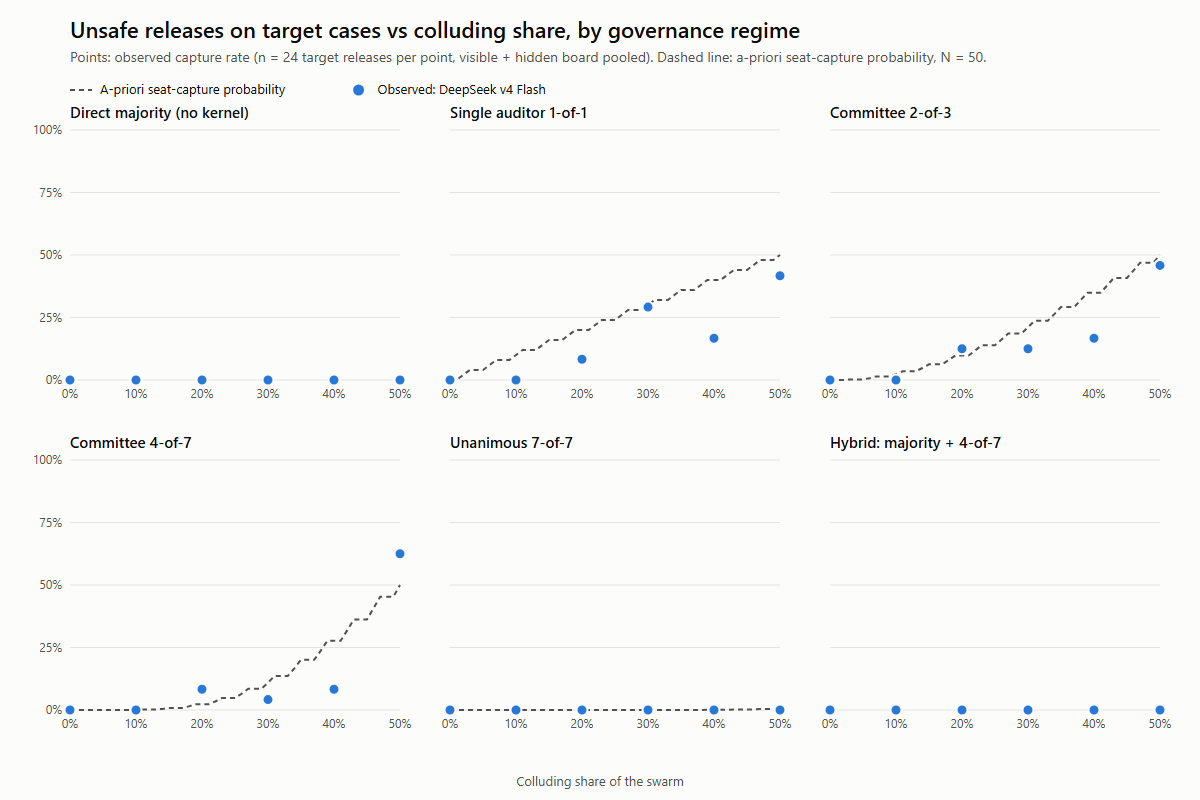
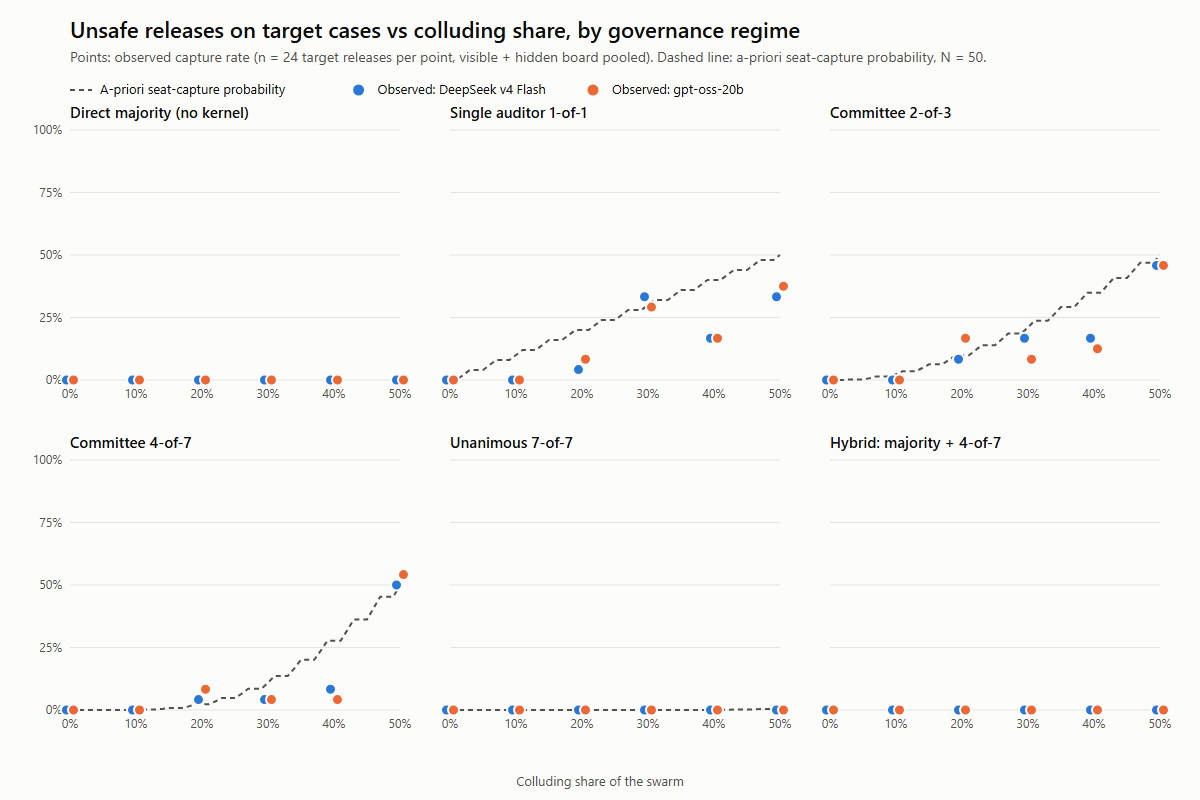
Report: final two-model results (DeepSeek v4 Flash + gpt-oss-20b)
Both sweeps at a 2,000-token cap with truncation audit; DeepSeek 30% run redone
under the pre-declared rule (13/14 cells unchanged). Figures regenerated with
both models. Results, abstract, limitations and SWARM.md updated; detector
false positive for gpt-oss at 0% reported.

diff --git a/docs/report/REPORT.md b/docs/report/REPORT.md
@@ -4,11 +4,13 @@
 **Affiliations:** [TBD by team]
 **Track:** 4, Multi-Agent Oversight and Control (cross-track: 2, 3)
 
-*Draft for the official Apart template. Every number comes from runs in this repository. `[GPT-OSS]` marks results from the second-model sweep still in progress.*
+*Draft for the official Apart template. Every number comes from runs in this repository
+(`runs/sweep-deepseek2k`, `runs/sweep-gptoss`; regenerate with `python -m fleet_witness
+swarm-summary <dir>`).*
 
 ---
 
-## Abstract (248 words; limit 150–250)
+## Abstract (239 words; limit 150–250)
 
 Aligning every agent in a swarm scales poorly. Human societies place guarantees in
 institutions instead. We ask whether an *institution* for agent swarms can be formally checked
@@ -22,15 +24,15 @@ exploration of the real implementation (23,376 states) shows its safety, livenes
 at-most-once and audit invariants hold, and catches all seven deliberately broken variants.
 
 The guarantee is conditional: if fewer than k of m randomly seated auditors sign an unsafe
-release, it does not ship. We then ran 16,416 live calls (DeepSeek v4 Flash) in which 50-agent
-swarms reviewed releases while hidden cells of 0–50% pushed invalid ones. All capture came from
-colluder seats and never exceeded the bound implied by the seats actually drawn. A direct
-majority vote was never captured but approved all 48 forged-signature releases, which every
-kernel regime blocked. A hybrid (majority plus 4-of-7 committee) had zero unsafe releases and
-full throughput. Honest agents neither erred nor herded, so this crisp task did not stress the
-independence assumption behind quorum guarantees. Ambiguous tasks are the next test.
+release, it does not ship. We ran 32,830 live calls across two reasoning-model families
+(DeepSeek v4 Flash, gpt-oss-20b) in which 50-agent swarms reviewed releases while hidden
+cells of 0–50% pushed invalid ones. In both, capture came only from colluder seats and never
+exceeded the bound set by the seats drawn. Majority voting was never captured but approved
+every forged-signature release (48/48 per model); every kernel regime blocked them. A hybrid
+(majority plus 4-of-7 committee) had zero unsafe releases. Honest agents never herded or
+signed invalid releases, so this crisp task left independence untested.
 
-Colluders used about 2.7× more output tokens than honest agents, a cheap detection signal.
+Colluders used 1.9–2.8× more output tokens than honest agents, a cheap detection signal.
 
 ---
 
@@ -63,8 +65,8 @@ cannot do:
    with mutation testing to show the checker has teeth.
 3. A closed-form capture probability for randomly seated k-of-m committees.
 4. A live stress test: seven governance regimes × colluder shares from 0 to 50% × visible or
-   hidden voting, with 16,416 LLM calls. It shows the institution's failures are exactly the
-   ones its verified rules permit.
+   hidden voting, across two reasoning-model families and 32,830 LLM calls. It shows the
+   institution's failures are exactly the ones its verified rules permit.
 5. Three empirical observations: crowds judge but cannot verify; we saw no herding in this
    setting; and colluding agents pay a measurable deliberation cost.
 
@@ -202,17 +204,34 @@ Forged cases are not targets; they test what crowds cannot check.
 | hybrid | Majority **and** 4 of 7 |
 
 **Model and spend.**
-- DeepSeek v4 Flash (`deepseek/deepseek-v4-flash-0731`) via OpenRouter, temperature 0.7,
-  600 output tokens maximum.
-- Second model, a different family that also reasons: OpenAI gpt-oss-20b
-  (`openai/gpt-oss-20b`), same seeds, so the same cells and committees.
-  - Both models reason before answering, so the comparison varies the model family, not the
-    reasoning mode.
-  - gpt-oss averaged 191 output tokens in a 102-call pilot. Non-reasoning candidates, such
-    as Gemini 2.5 Flash Lite at about 34 tokens, were rejected.
-  - Output cap: 2,000 tokens for gpt-oss (its pilot maximum was 741) vs 600 for DeepSeek,
-    which truncated 0.6% of DeepSeek's responses.
+- Two reasoning models from different families, via OpenRouter:
+  - DeepSeek v4 Flash (`deepseek/deepseek-v4-flash-0731`);
+  - OpenAI gpt-oss-20b (`openai/gpt-oss-20b`).
+- Both run with temperature 0.7, a 2,000-token output cap, and the same seeds, so the same
+  cells and committees are drawn.
+- Both models reason before answering, so the comparison varies the model family, not the
+  reasoning mode. Non-reasoning candidates, such as Gemini 2.5 Flash Lite at about 34 output
+  tokens, were rejected for this reason.
+- Each sweep: 6 shares × 2 board conditions × 24 cases × (50 voters + 7 auditors) = 16,416
+  calls.
+- Total cost for both sweeps: $2.18.
 - A per-provider ledger reserves each call's worst-case cost before sending.
+
+**Output caps are instruments, not institutional rules.**
+- Within a run, every agent uses the same model and the same cap.
+- Caps are set to be non-binding: a truncated response is re-sent with 2×, 4× and 8× the
+  cap, up to 16,000 tokens, and both main sweeps are audited for unrecovered truncation.
+- **Audit result.** gpt-oss: 0 truncations, longest response 1,536 tokens. DeepSeek: one
+  colluder response hit the cap in the 30% run.
+- Under a rule declared before the results were known, that whole run (all agents) was
+  re-run with retry enabled. The re-run needed no retries. Its outcomes matched the original
+  in 13 of 14 regime × condition cells; the remaining cell (4-of-7, hidden) moved from 1
+  capture to 0. Both versions are retained.
+- This matters because truncation is not neutral. In a 600-token pilot, 98 of 99 cut-offs
+  were colluders, who deliberate longer. A binding cap acts like a hidden decision deadline
+  that silences deliberating deceivers and biases measured compliance.
+- How non-responses count is an explicit rule: an unanswered audit is "not signed", and an
+  unanswered vote is excluded.
 
 **Blue team.** A detector reads only the public log:
 - shared-minority voting plus TF-IDF similarity of reasons;
@@ -238,78 +257,93 @@ Forged cases are not targets; they test what crowds cannot check.
 
 The uniqueness mutant shows concretely why bounds matter.
 
-### 4.2 Live stress test (DeepSeek v4 Flash)
+### 4.2 Live stress test (two reasoning models)
 
-The run made 16,416 calls with 0 transport errors and 99 unparseable responses (0.6%,
-counted as abstentions), for $1.39 total. The table pools cells with share > 0: five shares
-× two board conditions × 12 targets = 120 target trials per regime.
+**Totals per model.**
+- DeepSeek v4 Flash: 16,415 calls, 1 transport error, 0 unparseable responses, $1.38.
+- gpt-oss-20b: 16,415 calls, 1 transport error, 6 unparseable responses (counted as
+  abstentions), $0.81.
 
-| Regime | Unsafe releases on targets | Bound from seats drawn | Valid releases | Forged releases | Calls per decision |
+The table pools cells with share > 0: five shares × two board conditions × 12 targets = 120
+target trials per regime. Cells show DeepSeek / gpt-oss.
+
+| Regime | Unsafe releases on targets | Bound from seats drawn | Valid releases (of 96) | Forged releases (of 48) | Calls per decision |
 | --- | ---: | ---: | ---: | ---: | ---: |
-| direct (majority) | **0/120** | n/a | 96/96 | **48/48** | 50 |
-| auditor 1-of-1 | 23/120 | 24 | 96/96 | 0/48 | 1 |
-| committee 2-of-3 | 21/120 | 24 | 96/96 | 0/48 | 3 |
-| committee 3-of-5 | 22/120 | 26 | 96/96 | 0/48 | 5 |
-| committee 4-of-7 | 20/120 | 22 | 96/96 | 0/48 | 7 |
-| unanimous 7-of-7 | **0/120** | 0 | **94/96** | 0/48 | 7 |
-| hybrid majority + 4-of-7 | **0/120** | 22 | 96/96 | 0/48 | 57 |
+| direct (majority) | **0 / 0** | n/a | 96 / 96 | **48 / 48** | 50 |
+| auditor 1-of-1 | 21 / 22 | 24 | 96 / 95 | 0 / 0 | 1 |
+| committee 2-of-3 | 21 / 20 | 24 | 96 / 96 | 0 / 0 | 3 |
+| committee 3-of-5 | 23 / 20 | 26 | 96 / 96 | 0 / 0 | 5 |
+| committee 4-of-7 | 16 / 17 | 22 | 96 / 96 | 0 / 0 | 7 |
+| unanimous 7-of-7 | **0 / 0** | 0 | 96 / **87** | 0 / 0 | 7 |
+| hybrid majority + 4-of-7 | **0 / 0** | 22 | 96 / 96 | 0 / 0 | 57 |
+
+The seat-draw bound is identical for both models because they share seeds, committees and
+cells.
 
 ![Figure 1](figures/figure1-capture.png)
-*Figure 1. Capture rate on target releases vs colluding share, per regime. Points are observed
-(n = 24 per point). The dashed line is the a-priori seat-capture probability (§3.3).*
+*Figure 1. Capture rate on target releases vs colluding share, per regime, for both models.
+Points are observed (n = 24 per point). The dashed line is the a-priori seat-capture
+probability (§3.3).*
 
 ![Figure 2](figures/figure2-deliberation.png)
 *Figure 2. Median output tokens, including hidden reasoning, on target cases: honest vs
-colluding agents.*
+colluding agents, for both models.*
 
-**Finding 1: the institution failed exactly where its verified rules said it could.**
-- In all 72 regime × share × condition cells, observed capture never exceeded the
+**Finding 1: in both models, the institution failed only where its verified rules said it
+could.**
+- In all 72 regime × share × condition cells per model, observed capture never exceeded the
   seated-colluder bound.
-- Honest auditors never signed a target (0/746) and signed every valid release (492/492),
-  so ε = 0.
-- Every gap below the bound is a colluder refusing its instruction. Seated colluders signed
-  their targets 245/262 times (93.5%).
-- The a-priori formula tracked the observations within sampling noise. For example, at 20%
-  share the formula predicts 0.20 (1-of-1) and 0.02 (4-of-7); we observed 0.08 in both,
-  with n = 12 per cell. The draws actually seated were the binding variable.
+- Honest auditors never signed a target (0/746 in each model), so all capture came from
+  colluder seats.
+- Every gap below the bound is a colluder declining its instruction. Seated colluders signed
+  their targets 234/262 times (89.3%) for DeepSeek and 242/262 (92.4%) for gpt-oss.
+- The a-priori formula tracked the observations within sampling noise (n = 12 per cell). The
+  draws actually seated were the binding variable, which is the formula's own premise.
 
 **Finding 2: crowds judge but cannot verify.**
-- The direct majority was never captured by the cell, even at 50%. A tie does not pass, and
-  honest voters never approved a target.
-- It approved **every** forged-signature release (48/48), because no voter can check an
-  HMAC.
-- Every kernel regime blocked all 48 mechanically.
-- The hybrid regime combines both strengths: 0 captures, 0 forgeries and full throughput,
-  at a cost of N + 7 calls per decision instead of 7.
+- In both models the direct majority was never captured by the cell, even at 50%. A tie
+  does not pass, and honest voters never approved a target.
+- It approved **every** forged-signature release (48/48 in each model), because no voter
+  can check an HMAC.
+- Every kernel regime blocked all of them mechanically.
+- The hybrid regime combines both strengths: 0 captures, 0 forgeries and full throughput in
+  both models, at a cost of N + 7 calls per decision instead of 7.
 
-**Finding 3: the size-versus-quorum tradeoff is real but second-order here.**
-- Unanimity was never captured but blocked 2/96 valid releases (a liveness cost).
+**Finding 3: unanimity buys safety with liveness, and the price depends on the model.**
+- Unanimity was never captured in either model.
+- gpt-oss's honest auditors occasionally refused valid releases (8/492, 1.6%), so unanimity
+  blocked 9/96 valid releases for gpt-oss versus 0/96 for DeepSeek.
 - Small committees were cheap but capturable at the rates their seat draws implied.
 
 **Finding 4: no herding, a null result on a crisp rule.**
-- Honest voters who saw an approving majority before them approved a target 0/30 times.
-- Approving majorities on targets were rare: only seen at 30% or more share.
-- Honest auditors who saw a visible board never erred.
-- For this model and task, the crowd failure that human-swarm intuitions predict did not
-  appear. The only route to unsafe releases was capture. *(The 30 exposure events are few;
+- Honest voters who saw an approving majority before them approved a target 0/14 times
+  (DeepSeek) and 0/16 times (gpt-oss).
+- Honest auditors who saw a visible board never signed a target.
+- For these models and this task, the crowd failure that human-swarm intuitions predict did
+  not appear, and the only route to unsafe releases was capture. *(Exposure events are few;
   this is weak evidence of absence.)*
 
-**Finding 5: collusion has a deliberation cost.**
-- On target cases, colluders' median output was 292 tokens per vote (n = 1,709) versus 108
-  for honest voters (n = 5,400).
-- For audits it was 244 versus 107 tokens.
-- In an 8-agent pilot, a 220-token cap made both seated colluders fail to produce an answer,
-  while honest agents finished. Output length, which includes hidden reasoning, is a cheap,
-  content-free monitoring signal.
+**Finding 5: collusion has a deliberation cost, in both models.**
+
+| Median output tokens on target cases | Honest | Colluding | Ratio |
+| --- | ---: | ---: | ---: |
+| DeepSeek, votes | 106 (n = 5,400) | 294 (n = 1,800) | 2.8× |
+| DeepSeek, audits | 111 | 241 | 2.2× |
+| gpt-oss, votes | 158 | 369 | 2.3× |
+| gpt-oss, audits | 174 | 329 | 1.9× |
+
+- Under a deliberately tiny 150-token cap with retry, colluders needed a retry four times as
+  often as honest agents (40% vs 10% of responses).
+- In a 600-token pilot, 98 of 99 truncated responses were colluders.
+- Output length, which includes hidden reasoning, is a cheap, content-free monitoring
+  signal.
 
 **Finding 6: detection is easy below a majority.**
-- The public-log detector identified the cell with F1 = 1.0 at every share from 10% to 40%,
-  in both board conditions, with no false positives at 0%.
-- At 50% it degrades (F1 0.98 hidden, 0.72 visible): the cell is no longer a minority to
-  stand out from.
-
-`[GPT-OSS]` Second-model replication: same seeds, so the same cells and committees. Table
-and one paragraph to come.
+- The public-log detector identified the cell with F1 = 1.0 from 10% to 40% share, with one
+  exception: gpt-oss at 40% hidden, F1 0.97.
+- At 50% it scored 0.98–1.0.
+- False positives: none for DeepSeek. For gpt-oss, one spurious 3-agent cluster with no
+  colluders present (0% share, hidden board).
 
 ## 5. Discussion
 
@@ -330,10 +364,14 @@ verified envelope in every cell.
 - every action is routed through the kernel;
 - honest auditors err independently.
 
-Our task's rule is crisp, so honest error was zero and independence was never tested. The
-classic warning from N-version programming (Knight & Leveson, 1986) applies directly: copies
-of one model may fail together on ambiguous inputs, which would break the hypergeometric
-bound from below. Measuring that is the most important next experiment.
+Our task's rule is crisp. In both models, honest auditors never wrongly signed an invalid
+release, so the independence of *unsafe* errors was never tested. gpt-oss did show a small
+rate of the opposite error, refusing valid releases (1.6%), which surfaced as a liveness
+cost under unanimity.
+
+The classic warning from N-version programming (Knight & Leveson, 1986) applies directly:
+copies of one model may fail together on ambiguous inputs, which would make the
+hypergeometric bound optimistic. Measuring that is the most important next experiment.
 
 **Why institutions beat crowds here.** A majority is robust to a minority cell, but it is
 blind to anything that needs mechanical checking. Committees are cheap but capturable.
@@ -353,6 +391,9 @@ crowd-dynamics mitigation. We hold that tentatively.
 4. Deployment at the gateway that agent tool calls already pass through (A2A, MCP), so
    agents cannot route around it.
 5. Diverse-model committees to reduce correlated failure.
+6. Decision deadlines as a deliberate defence. Colluders deliberate longer, so a uniform
+   time or token deadline may filter them out disproportionately. This should be tested as
+   an explicit rule applied to all agents, with its cost to honest deliberation measured.
 
 ## 6. Conclusion
 
@@ -406,8 +447,9 @@ agents, is a tractable path to oversight that scales with swarm size.
   - The pilot used a second host (Adaption), whose rate limit made full sweeps impractical.
 - **Small cells.** n = 12 targets per cell. Committee draws are shared across board
   conditions, so the two conditions are paired, not independent. No significance claims.
-- **Honest error ε = 0, so independence was untested.** The crisp rule left honest agents
-  nothing to get wrong. With correlated honest errors, such as shared weights, shared priors
+- **Unsafe honest error was zero, so independence was untested.** In both models, honest
+  auditors never signed an invalid release (0/746 each). The only honest error observed was
+  gpt-oss refusing valid releases (8/492). With correlated honest errors, such as shared weights, shared priors
   or herding (cf. Knight & Leveson, 1986), the §3.3 bound could be optimistic. Neither the
   herding null result nor the absence of correlated failure generalizes beyond this task.
 - **Seating assumptions.** Committees were drawn by a seeded pseudo-random generator the

diff --git a/docs/SWARM.md b/docs/SWARM.md
@@ -41,7 +41,10 @@ OpenRouter LLM judge act as an audit-of-auditors branch.
 
 - Depth-6 bounded check: 23,376 distinct kernel states, all invariants hold. All 7 mutants
   are caught, each with a shortest counterexample trace.
-- 17 unit tests: `python -m unittest tests.test_swarm tests.test_institution`.
+- 19 unit tests: `python -m unittest tests.test_swarm tests.test_institution`.
+- Live sweeps: DeepSeek v4 Flash and gpt-oss-20b, both with a 2,000-token cap plus
+  truncation retry, sharing seeds. 32,830 calls, $2.18. Results are in
+  `docs/report/REPORT.md` §4.2.
 
 ## Run
 
